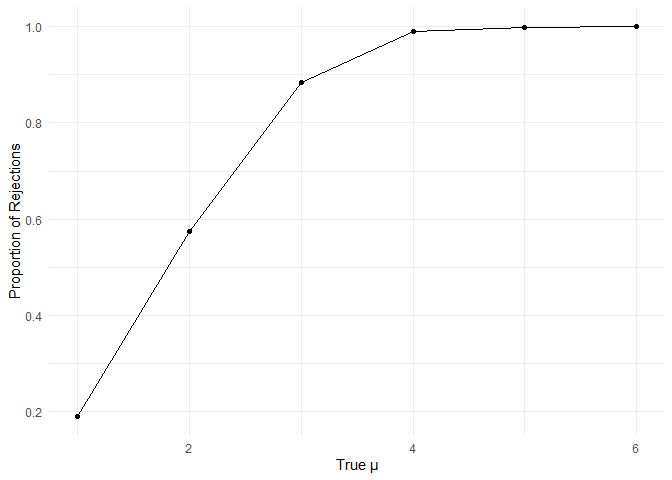
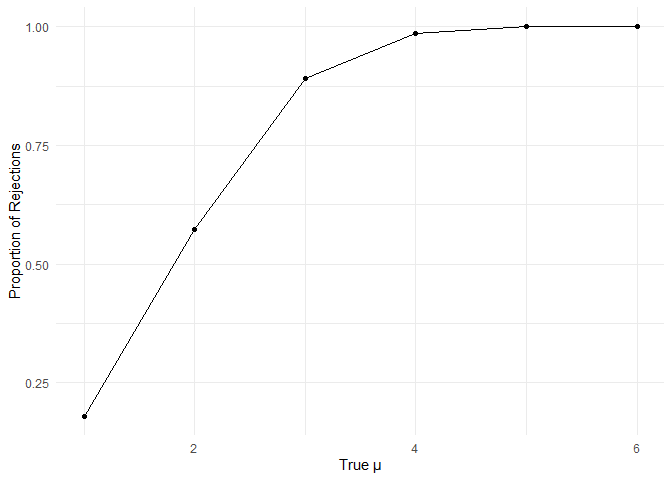
Problem 2 commit

diff --git a/p8105_hw5_jrm2319.md b/p8105_hw5_jrm2319.md
@@ -78,13 +78,13 @@ for (mu in new_mus) {
 tot_results = bind_rows(all_results)
 ```
 
-Make a plot showing the proportion of times the null was rejected and
-the true value of mu.
+PLOT: showing the proportion of times the null was rejected and the true
+value of mu.
 
 ``` r
 tot_results = tot_results %>%
   mutate(
-    rejection = p_value < 0.05  # 1 if null hypothesis is rejected, 0 if not
+    rejection = p_value < 0.05
   )
 
 rejection_proportion = tot_results %>%
@@ -104,5 +104,68 @@ ggplot(rejection_proportion, aes(x = mu, y = rejection_rate)) +
 ```
 
 ![](p8105_hw5_jrm2319_files/figure-gfm/unnamed-chunk-4-1.png)<!-- -->
+Describe the association between effect size and power:  
+Based on the graph above, the power of the test increases as the true
+value of mu increases. Therefore, we can see a positive relationship
+between the true value of mu and power however, it does level off betwen
+mu = 5 and mu = 6.
+
+PLOT: The average estimation of mu_hat and the true value of mu.
+
+``` r
+avg_mu_hat = tot_results %>%
+  group_by(mu) %>%
+  summarize(
+    avg_mu_hat = mean(mu_hat)
+  )
+
+ggplot(avg_mu_hat, aes(x = mu, y = avg_mu_hat)) +
+  geom_line() +
+  geom_point() +
+  labs(
+    x = "True μ", 
+    y = "Average Estimate of μ_hat"
+  ) +
+  theme_minimal()
+```
+
+![](p8105_hw5_jrm2319_files/figure-gfm/unnamed-chunk-5-1.png)<!-- -->
+PLOT: Average estimate of mu_hat only in samples for which the null was
+rejected.
+
+``` r
+avg_mu_hat_rejected = tot_results %>%
+  filter(rejection == TRUE) %>%
+  group_by(mu) %>%
+  summarize(
+    avg_mu_hat_rejected = mean(mu_hat)
+  )
+
+ggplot(avg_mu_hat_rejected, aes(x = mu, y = avg_mu_hat_rejected)) +
+  geom_line() + 
+  geom_point() +
+  labs(
+    x = "True μ", 
+    y = "Average Estimate of μ_hat"
+  ) +
+  theme_minimal()
+```
+
+![](p8105_hw5_jrm2319_files/figure-gfm/unnamed-chunk-6-1.png)<!-- --> Is
+the sample average of μ_hat across tests for which the null is rejected
+approximately equal to the true value of μ? Why or why not? The sample
+average of μ_hat across tests for which the null is rejected is not
+approximately equal to the true value of μ. Based on the graph, the
+sample averages of μ_hat = 2, 3, and 4 are more than the true value of
+μ. For example, in the first graph, we see that the average estimated
+μ_hat = 2 has a true value of μ =2, however in the bottom graph the
+average estimated μ_hat = 2 has a true value of μ = ~2.2.
+
+Therefore, the sample average of μ_hat across tests for which the null
+is rejected is larger than the true value of μ and therefore they are
+not approximately equal.
+
+But, for the sample average of μ_hat = 5 and 6, the null is rejected is
+approximately equal to the true value of μ.
 
 ### **Problem 3**
